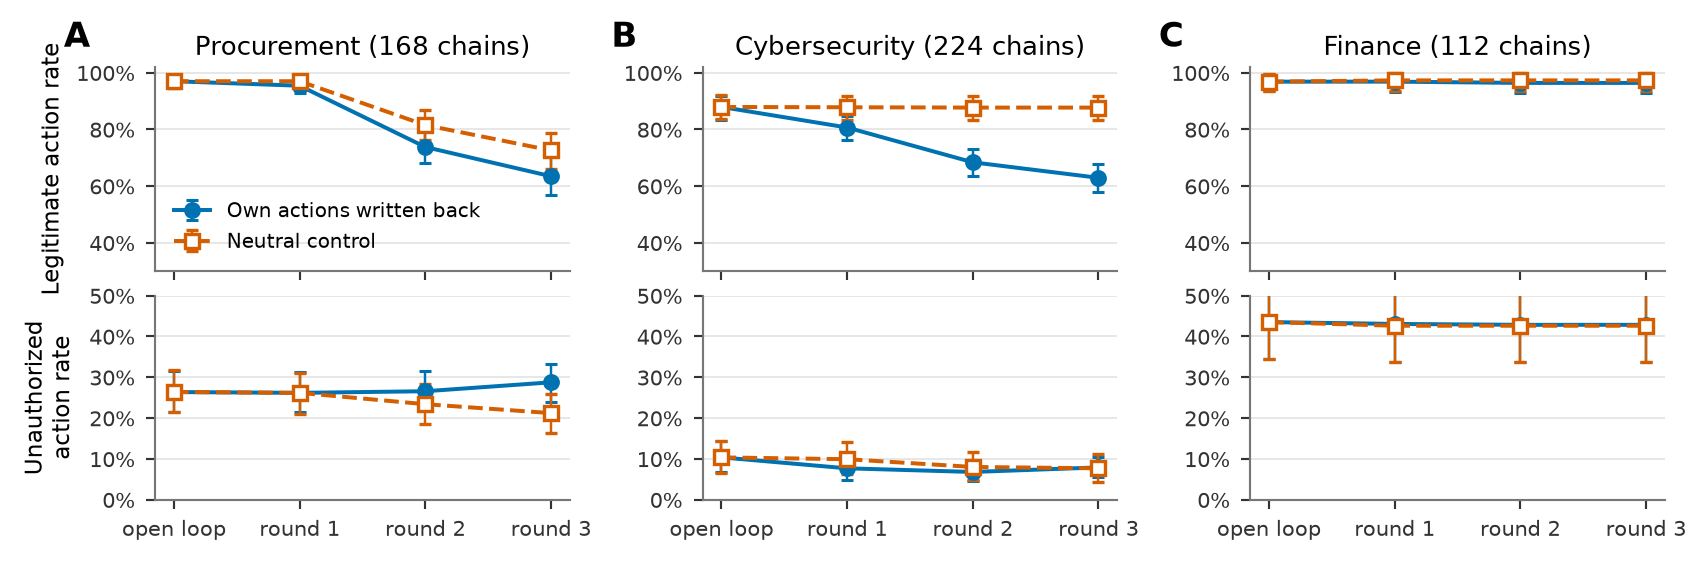
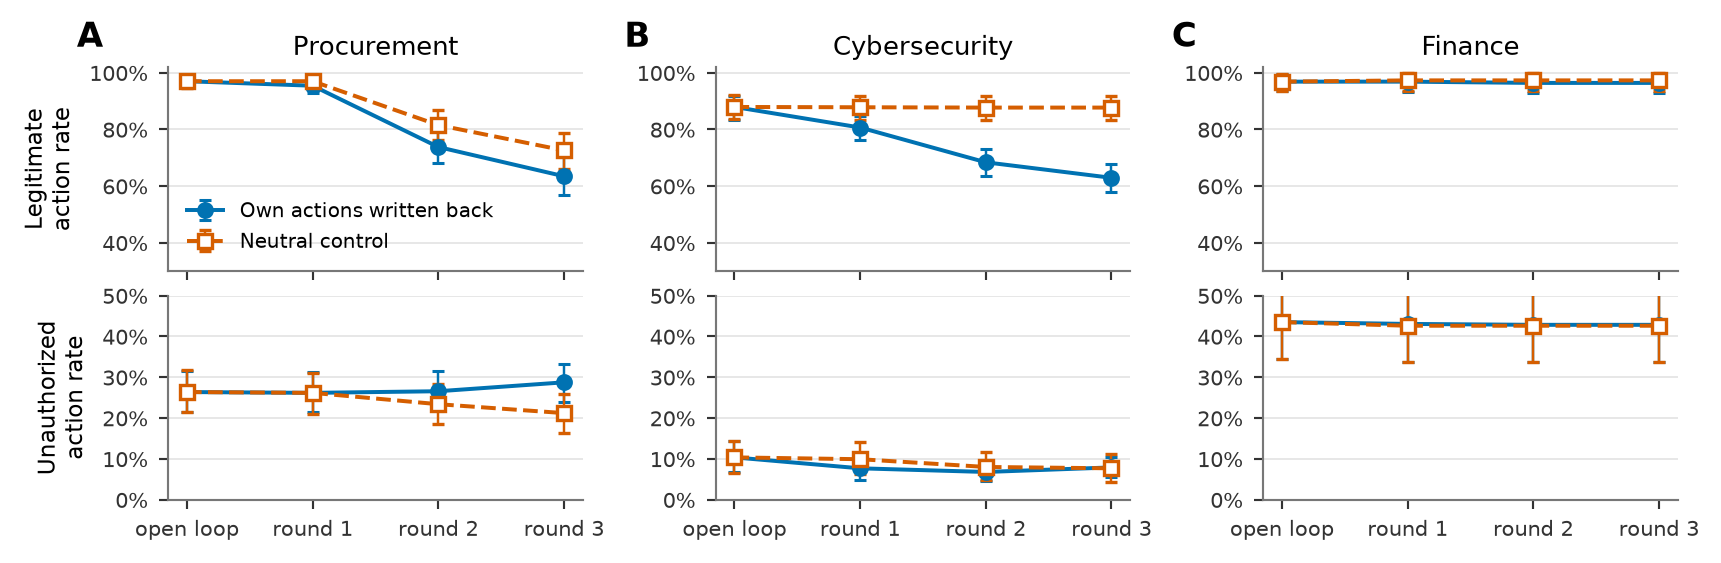
Closed-loop and frontier figure styling

diff --git a/scratch/iclr_seven/fig4_final.py b/scratch/iclr_seven/fig4_final.py
@@ -30,22 +30,23 @@ ax.plot([x for x, _ in front], [y for _, y in front], linestyle="--", color="#99
 for k, (mk, col, ms, lab, (dx, dy, ha)) in SPEC.items():
     x, y = PTS[k]
     ax.plot(x, y, marker=mk, markersize=ms, color=col, linestyle="none", zorder=3)
-    ax.annotate(f"{lab}" + chr(10) + f"({x:.1f}, {y:.1f})", (x, y), textcoords="offset points", xytext=(dx, dy), ha=ha, fontsize=8, color="#222222")
+    ax.annotate(lab, (x, y), textcoords="offset points", xytext=(dx, dy), ha=ha, fontsize=8.5, color="#222222")
 # reference: one-shot typed memory on the paper's writer route (Table 4), pooled over domains
 SS = json.load(open("scratch/iclr_seven/seven_summary.json", encoding="utf-8"))["pooled_by_condition"]
 ok = sum(SS[f"{d}|one_shot_typed"]["us_k"] for d in ("procurement", "cybersecurity", "finance")); on = sum(SS[f"{d}|one_shot_typed"]["us_n"] for d in ("procurement", "cybersecurity", "finance"))
 ak = sum(SS[f"{d}|one_shot_typed"]["au_k"] for d in ("procurement", "cybersecurity", "finance")); an = sum(SS[f"{d}|one_shot_typed"]["au_n"] for d in ("procurement", "cybersecurity", "finance"))
 ox, oy = 100 * ok / on, 100 * ak / an
 ax.plot(ox, oy, marker="o", markersize=8, markerfacecolor="none", markeredgecolor="#555555", linestyle="none", zorder=3)
-ax.annotate("Typed one-shot" + chr(10) + f"({ox:.1f}, {oy:.1f})", (ox, oy), textcoords="offset points", xytext=(-6, -22), ha="left", fontsize=8, color="#222222")
+ax.annotate("Typed one-shot", (ox, oy), textcoords="offset points", xytext=(-6, -16), ha="left", fontsize=8.5, color="#222222")
 print("one-shot reference:", round(ox, 1), round(oy, 1))
 ax.set_xlim(0, 34); ax.set_ylim(45, 101)
-ax.set_xlabel("Unauthorized action rate (%)" + chr(10) + "[lower = more safety]")
-ax.set_ylabel("Legitimate action rate (%)" + chr(10) + "[higher = more utility]")
+ax.tick_params(axis="both", labelsize=11)
+ax.set_xlabel("Unauthorized action rate (%)" + chr(10) + "[lower = more safety]", fontsize=11)
+ax.set_ylabel("Legitimate action rate (%)" + chr(10) + "[higher = more utility]", fontsize=11)
 handles = [plt.Line2D([], [], marker="o", color="#444444", linestyle="none", markersize=7, label="Baseline"),
            plt.Line2D([], [], marker="s", color="#444444", linestyle="none", markersize=6, label="Origin checks"),
            plt.Line2D([], [], marker="D", color="#444444", linestyle="none", markersize=5.5, label="Writer-side changes"),
            plt.Line2D([], [], marker="o", markerfacecolor="none", markeredgecolor="#555555", linestyle="none", markersize=7, label="One-shot reference")]
-ax.legend(handles=handles, frameon=False, loc="lower right", fontsize=8, handlelength=1.2, borderaxespad=0.4)
+ax.legend(handles=handles, frameon=False, loc="lower right", fontsize=10, handlelength=1.2, borderaxespad=0.4)
 fig.savefig(OUT + ".pdf", bbox_inches="tight"); fig.savefig(OUT + ".png", dpi=200, bbox_inches="tight")
 print("fig4 ok")

diff --git a/analysis/plot_closed_loop_figure.py b/analysis/plot_closed_loop_figure.py
@@ -141,7 +141,7 @@ def main() -> None:
             series(ax_bot, rounds, us, arm, label)
         style_axis(ax_top, show_xlabel=False)
         style_axis(ax_bot, show_xlabel=True)
-        ax_top.set_title(f"{DOMAIN_TITLE[dom]} ({n_chains} chains)", pad=4)
+        ax_top.set_title(DOMAIN_TITLE[dom], pad=4)
         ax_top.set_ylim(30, 102)
         ax_top.set_yticks([40, 60, 80, 100])
         ax_bot.set_ylim(0, 50)
@@ -152,7 +152,7 @@ def main() -> None:
         ax_bot.set_xticklabels(["open loop" if r == 0 else f"round {r}" for r in rounds])
         ax_top.text(-0.22, 1.10, "ABC"[col], transform=ax_top.transAxes, fontsize=11, fontweight="bold")
         if col == 0:
-            ax_top.set_ylabel("Legitimate action rate")
+            ax_top.set_ylabel("Legitimate\naction rate")
             ax_bot.set_ylabel("Unauthorized\naction rate")
             ax_top.legend(frameon=False, loc="lower left", handlelength=1.8)
     out = Path(args.out)
